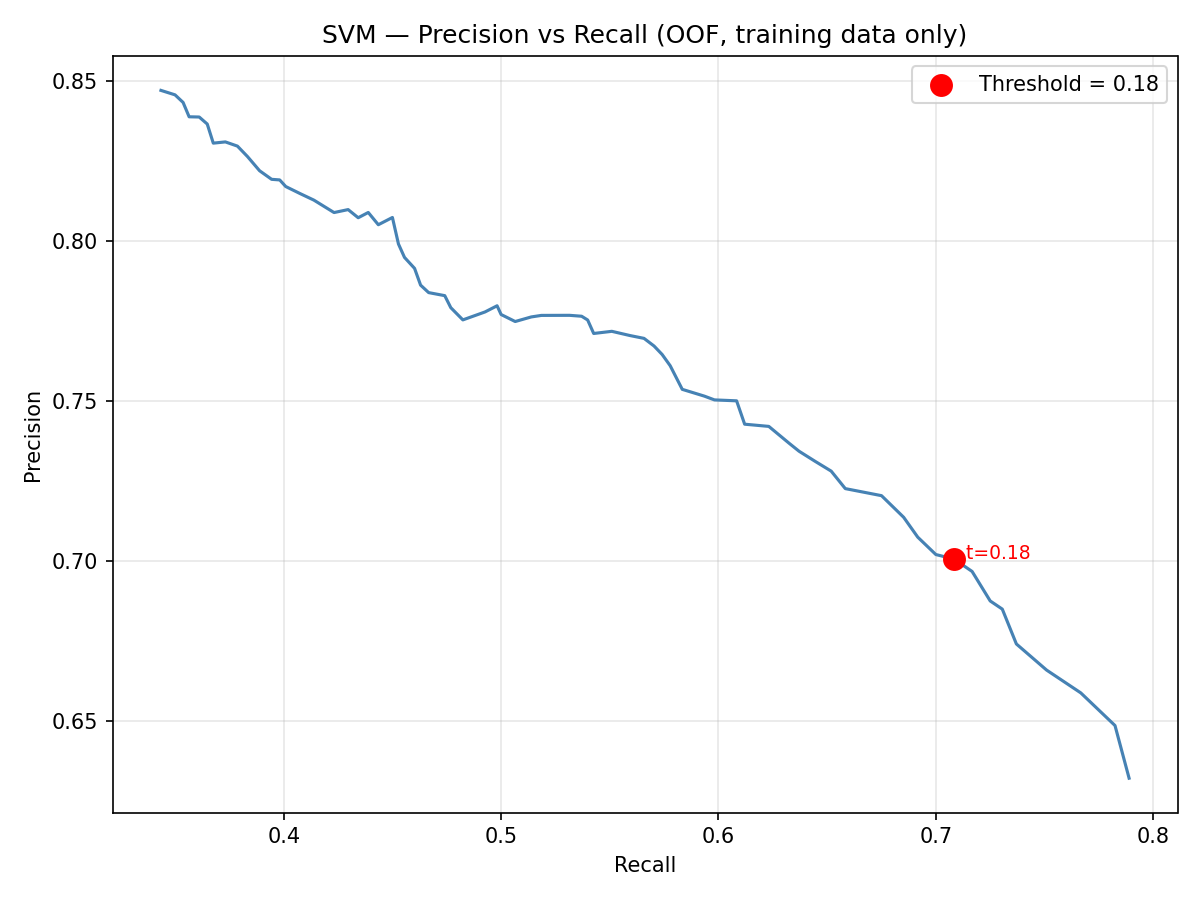
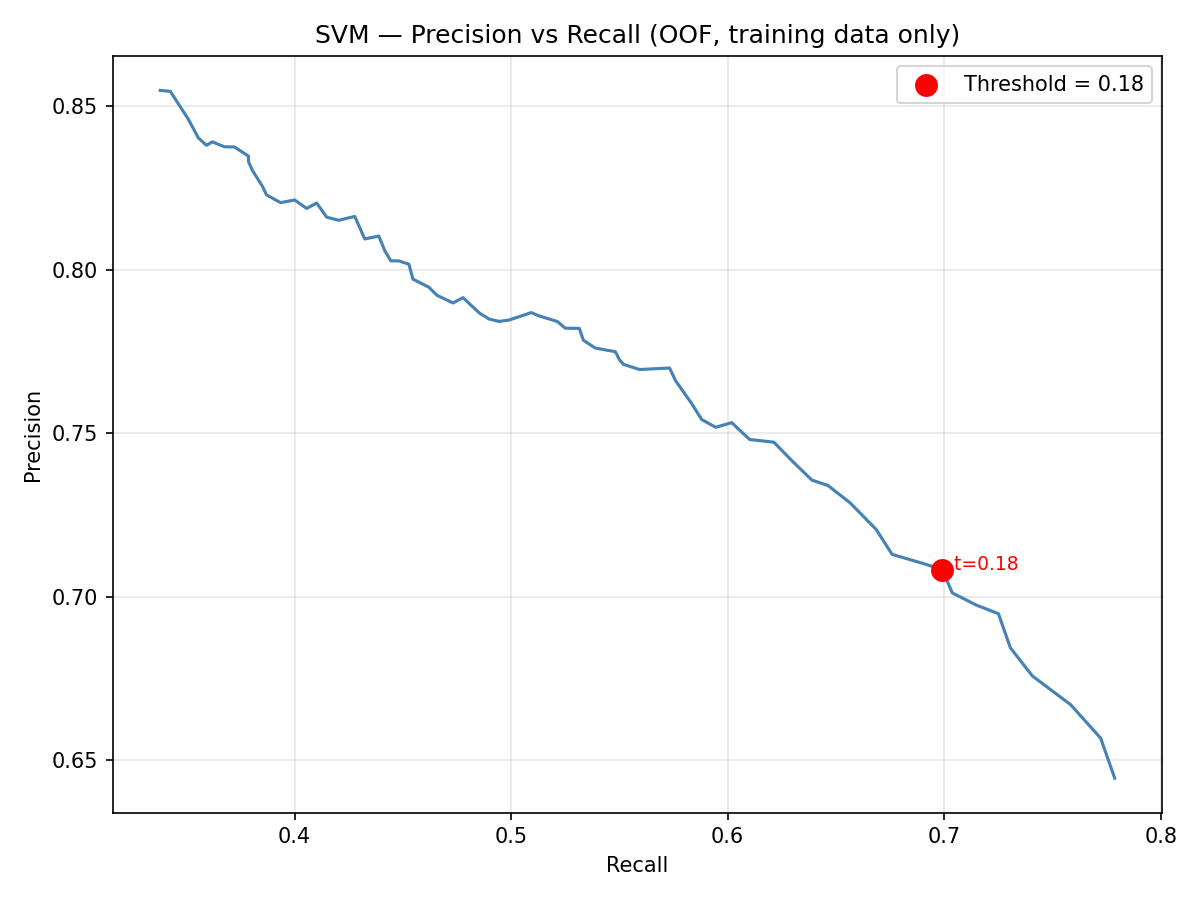
adjusted c and gamma, added svm_class_weight

diff --git a/models/svm_model.py b/models/svm_model.py
@@ -90,12 +90,12 @@ def _make_svm_param_distributions() -> tuple[list, list, list]:
     Strategy C – SMOTENC + class_weight combined.
         Pipeline must contain a "smotenc" step.
     """
-    # Bounded parameter space for stable QP convergence
-    rbf_C = loguniform(0.1, 100)
-    rbf_g = loguniform(1e-3, 1)
-    lin_C = loguniform(
-        0.01, 0.5
-    )  # Constrained to prevent linear separation stalls on noisy data
+    # Moderately widened parameter space — slightly wider than the original
+    # bounds to explore more configurations, without spreading 120 iterations
+    # too thin across the space.
+    rbf_C = loguniform(0.05, 500)
+    rbf_g = loguniform(5e-4, 1)
+    lin_C = loguniform(0.01, 5)
     dist_A = [
         {
             "smotenc__k_neighbors": [3, 5, 7],
@@ -117,12 +117,12 @@ def _make_svm_param_distributions() -> tuple[list, list, list]:
             "svm__kernel": ["rbf"],
             "svm__C": rbf_C,
             "svm__gamma": rbf_g,
-            "svm__class_weight": ["balanced", {0: 1, 1: 2}, {0: 1, 1: 3}],
+            "svm__class_weight": ["balanced", {0: 1, 1: 2}, {0: 1, 1: 3}, {0: 1, 1: 4}],
         },
         {
             "svm__kernel": ["linear"],
             "svm__C": lin_C,
-            "svm__class_weight": ["balanced", {0: 1, 1: 2}, {0: 1, 1: 3}],
+            "svm__class_weight": ["balanced", {0: 1, 1: 2}, {0: 1, 1: 3}, {0: 1, 1: 4}],
         },
     ]
 
@@ -132,13 +132,13 @@ def _make_svm_param_distributions() -> tuple[list, list, list]:
             "svm__kernel": ["rbf"],
             "svm__C": rbf_C,
             "svm__gamma": rbf_g,
-            "svm__class_weight": ["balanced", {0: 1, 1: 2}, {0: 1, 1: 3}],
+            "svm__class_weight": ["balanced", {0: 1, 1: 2}, {0: 1, 1: 3}, {0: 1, 1: 4}],
         },
         {
             "smotenc__k_neighbors": [3, 5, 7],
             "svm__kernel": ["linear"],
             "svm__C": lin_C,
-            "svm__class_weight": ["balanced", {0: 1, 1: 2}, {0: 1, 1: 3}],
+            "svm__class_weight": ["balanced", {0: 1, 1: 2}, {0: 1, 1: 3}, {0: 1, 1: 4}],
         },
     ]
 
@@ -169,7 +169,7 @@ def _build_pipeline_with_smotenc(
             "svm",
             SVC(
                 random_state=random_state,
-                max_iter=60_000,
+                max_iter=100_000,
                 tol=1e-3,
                 cache_size=1024,
             ),
@@ -191,7 +191,7 @@ def _build_pipeline_no_smote(
             "svm",
             SVC(
                 random_state=random_state,
-                max_iter=60_000,
+                max_iter=100_000,
                 tol=1e-3,
                 cache_size=1024,
             ),
@@ -685,9 +685,9 @@ def train_svm(
         ]
         if hasattr(inner_svc, "n_iter_"):
             n_iter_arr = np.asarray(inner_svc.n_iter_)
-            if np.any(n_iter_arr >= 60_000):
+            if np.any(n_iter_arr >= 100_000):
                 print(
-                    f"[WARNING] SVC hit max_iter=60,000 (n_iter_={n_iter_arr.tolist()}). "
+                    f"[WARNING] SVC hit max_iter=100,000 (n_iter_={n_iter_arr.tolist()}). "
                     f"Consider raising max_iter or relaxing C/tol."
                 )
             else:
